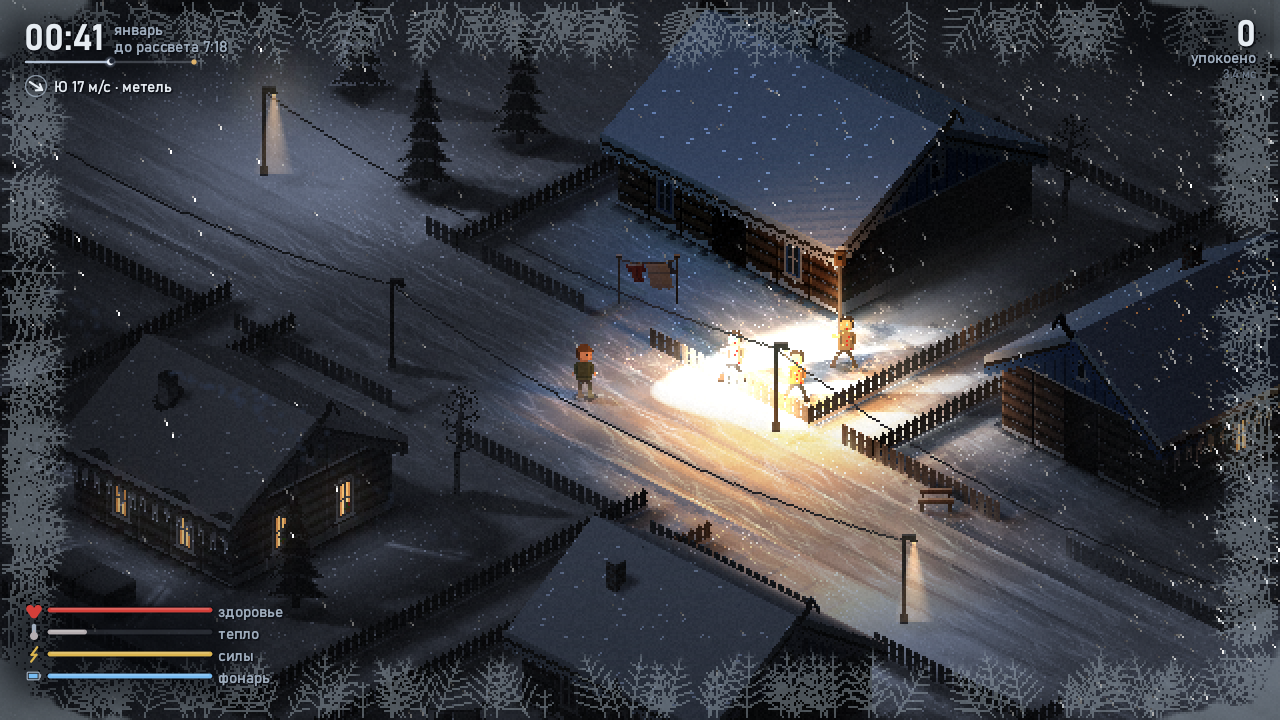
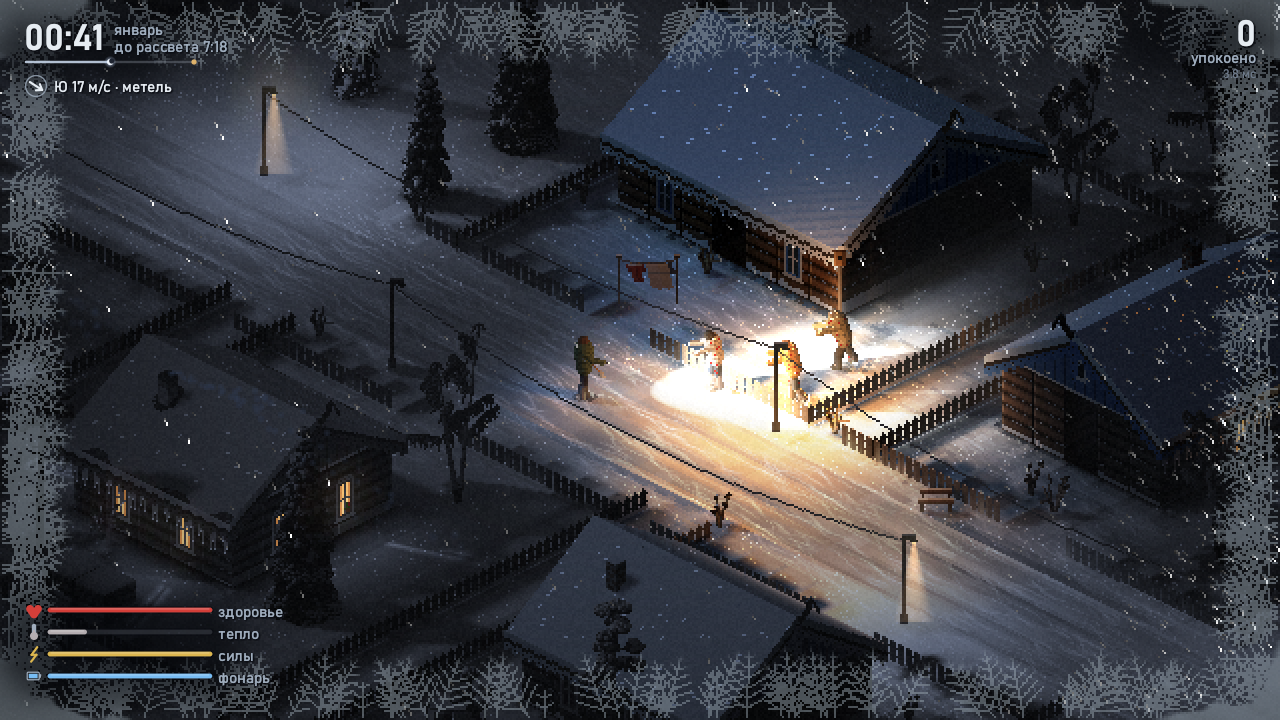
Faster plant blit; README and screenshots for the forest and the figures

diff --git a/README.md b/README.md
@@ -22,8 +22,8 @@ shovel, a flashlight and a warm izba somewhere nearby. Survive from 17:20 until
 dawn at 08:00 (about nine and a half real minutes).
 
 There is no engine, no libraries beyond the Windows system DLLs, and no asset
-files. The village, sprites, light, weather and sound are all produced by
-~40k lines of hand-written NASM. The game is a single 480 KB executable.
+files. The village, trees, people, light, weather and sound are all produced by
+~46k lines of hand-written NASM. The game is a single 540 KB executable.
 
 **What's inside**
 
@@ -56,12 +56,32 @@ files. The village, sprites, light, weather and sound are all produced by
   while the next frame is being rendered. Lighting and the
   floor have AVX2 paths (8 pixels per step) next to the SSE2 ones. Every path
   produces the same frame down to the byte, which is checked against the
-  single-threaded SSE2 build. On an i7-7700 a frame takes about 4.3 ms
-  (around 230 fps).
+  single-threaded SSE2 build. On an i7-7700 a frame takes about 4.5 ms
+  (around 220 fps).
 - **The world.** Gabled snow roofs are rasterized in world planes with
   per-pixel depth. There are snow drifts with normals, and footprints and blood
   that stay in the snow. Walls are cut away around the player, and collisions
-  follow the sprite shapes.
+  follow the shapes on screen.
+- **Trees are small 3D models.** At startup every spruce, pine, birch, young
+  spruce, willow, dry weed and stump is grown from thousands of spheres:
+  drooping spruce tiers with snow pillows on top, pine limbs ending in clumps
+  of needles, white birch bark with black lenticels and long hanging twigs.
+  Then the game camera photographs each model into a sprite that keeps a
+  normal and a world position for every pixel. A street lamp lights the near
+  side of a spruce and leaves the far side dark, and the moon casts the shape
+  of the actual crown, so a birch throws a lacy shadow on a roof. Each species
+  has several variants, mirrored and shifted per tile. Pines grow in groves,
+  young spruces and willows fill the forest edge, and dry weeds stand along
+  the fences.
+- **People are posed capsule figures.** The player and the zombies are
+  skeletons of about 25 capsules, posed every frame and ray-cast into the
+  G-buffer. They can face any direction and are lit from any side. When
+  walking, the hips ride on the straight leg. Zombies lurch and some of them
+  limp; they reach forward in a chase, lunge when they strike and reel back
+  when hit. There are six zombie outfits: a quilted jacket with an ushanka, a
+  coat with a headscarf, a sheepskin, a sweater, a cap, and an old woman's
+  shawl. Clothes carry blood and settle snow, and a corpse slowly disappears
+  under it.
 - **Every izba is furnished differently.** When the roof comes off you see
   log walls, whitewash over a painted dado, patterned wallpaper or board
   panelling, and a floor that is bare, red, ochre or grey. There is a bed
@@ -140,6 +160,7 @@ The game can render fixed-seed scenes to files, which is how it was developed:
 | `--intro` (with a shot) | draws the title overlay over the shot |
 | `--house N`, `--pick 1\|2` (with `--shot3`) | inside the N-th izba; next to its first item or container, pressing E (and 1–4) just before the shot |
 | `--albedo` (with a shot) | writes the unlit G-buffer colours to `shotN.bmp` |
+| `--veg`, `--figs` (with a shot) | every plant variant in rows; every zombie outfit and the player in eight turns |
 | `--view N` (with a shot) | height of `viewN.bmp` (16:9), 1080 by default |
 | `--bench` (with a shot) | runs the scene in a live window for 600 frames and writes per-pass timings to `bench.bin` |
 | `--threads N`, `--noavx` | limit the render thread pool; use only the SSE2 path |
@@ -155,8 +176,8 @@ runs `--bench` and prints min / median / p90 for every pass.
 это примерно девять с половиной минут.
 
 Ни движка, ни библиотек, кроме системных DLL Windows, ни файлов с ресурсами.
-Село, спрайты, свет, погода и звук целиком получаются из ~40 тыс. строк NASM,
-написанных руками. Вся игра — один exe на 480 КБ.
+Село, деревья, люди, свет, погода и звук целиком получаются из ~46 тыс. строк
+NASM, написанных руками. Вся игра — один exe на 540 КБ.
 
 **Что внутри**
 
@@ -186,11 +207,28 @@ runs `--bench` and prints min / median / p90 for every pass.
   считается следующий кадр. У освещения и пола
   есть пути на AVX2 (8 пикселей за шаг) рядом с SSE2. Все пути дают один и тот
   же кадр до байта, это сверяется с однопоточной SSE2-сборкой. На i7-7700 кадр
-  занимает около 4,3 мс (около 230 fps).
+  занимает около 4,5 мс (около 220 fps).
 - **Мир.** Двускатные крыши в снегу растеризуются в мировых плоскостях с
   попиксельной глубиной. Есть сугробы с нормалями, следы и кровь, которые
   остаются на снегу. Стены срезаются вокруг игрока, а столкновения повторяют
-  форму спрайтов.
+  то, что нарисовано.
+- **Деревья — маленькие 3D-модели.** При запуске каждая ель, сосна, берёза,
+  ёлочка подроста, куст ивняка, бурьян и пень выращиваются из тысяч шариков:
+  у ели никнущие ярусы со снежными подушками, у сосны сучья с пучками хвои на
+  концах, у берёзы белая кора с чёрными чёрточками и длинные свисающие
+  веточки. Потом камера игры «снимает» модель в картинку, где у каждого
+  пикселя есть нормаль и своя точка в мире. Фонарь освещает ближний бок ели, а
+  дальний остаётся тёмным; луна отбрасывает тень настоящей кроны, так что
+  берёза кладёт на крышу кружевную тень. У каждой породы несколько вариантов,
+  на тайле они зеркалятся и сдвигаются. Сосны растут рощами, опушку заполняют
+  подрост и ивняк, вдоль заборов стоит сухой бурьян.
+- **Люди — фигуры из капсул в позе.** Игрок и зомби — скелеты примерно из 25
+  капсул. Поза считается каждый кадр, фигура рисуется лучом в G-буфер, поэтому
+  она может смотреть куда угодно, и свет ложится на неё с любой стороны. На
+  ходу таз едет по прямой ноге. Зомби шатаются, иные хромают, в погоне тянут
+  руки, при ударе делают выпад, а от лопаты отшатываются. Одежда шести видов:
+  ватник с ушанкой, пальто с платком, тулуп, свитер, кепка и бабкина шаль. На
+  одежде кровь и снег, а труп понемногу заметает.
 - **В каждой избе своё убранство.** Когда снимается крыша, внутри видны
   брёвна, побелка над крашеной панелью, обои с узором или вагонка. Пол
   некрашеный, суриком, охрой или серый. Там кровать с лоскутным одеялом,
